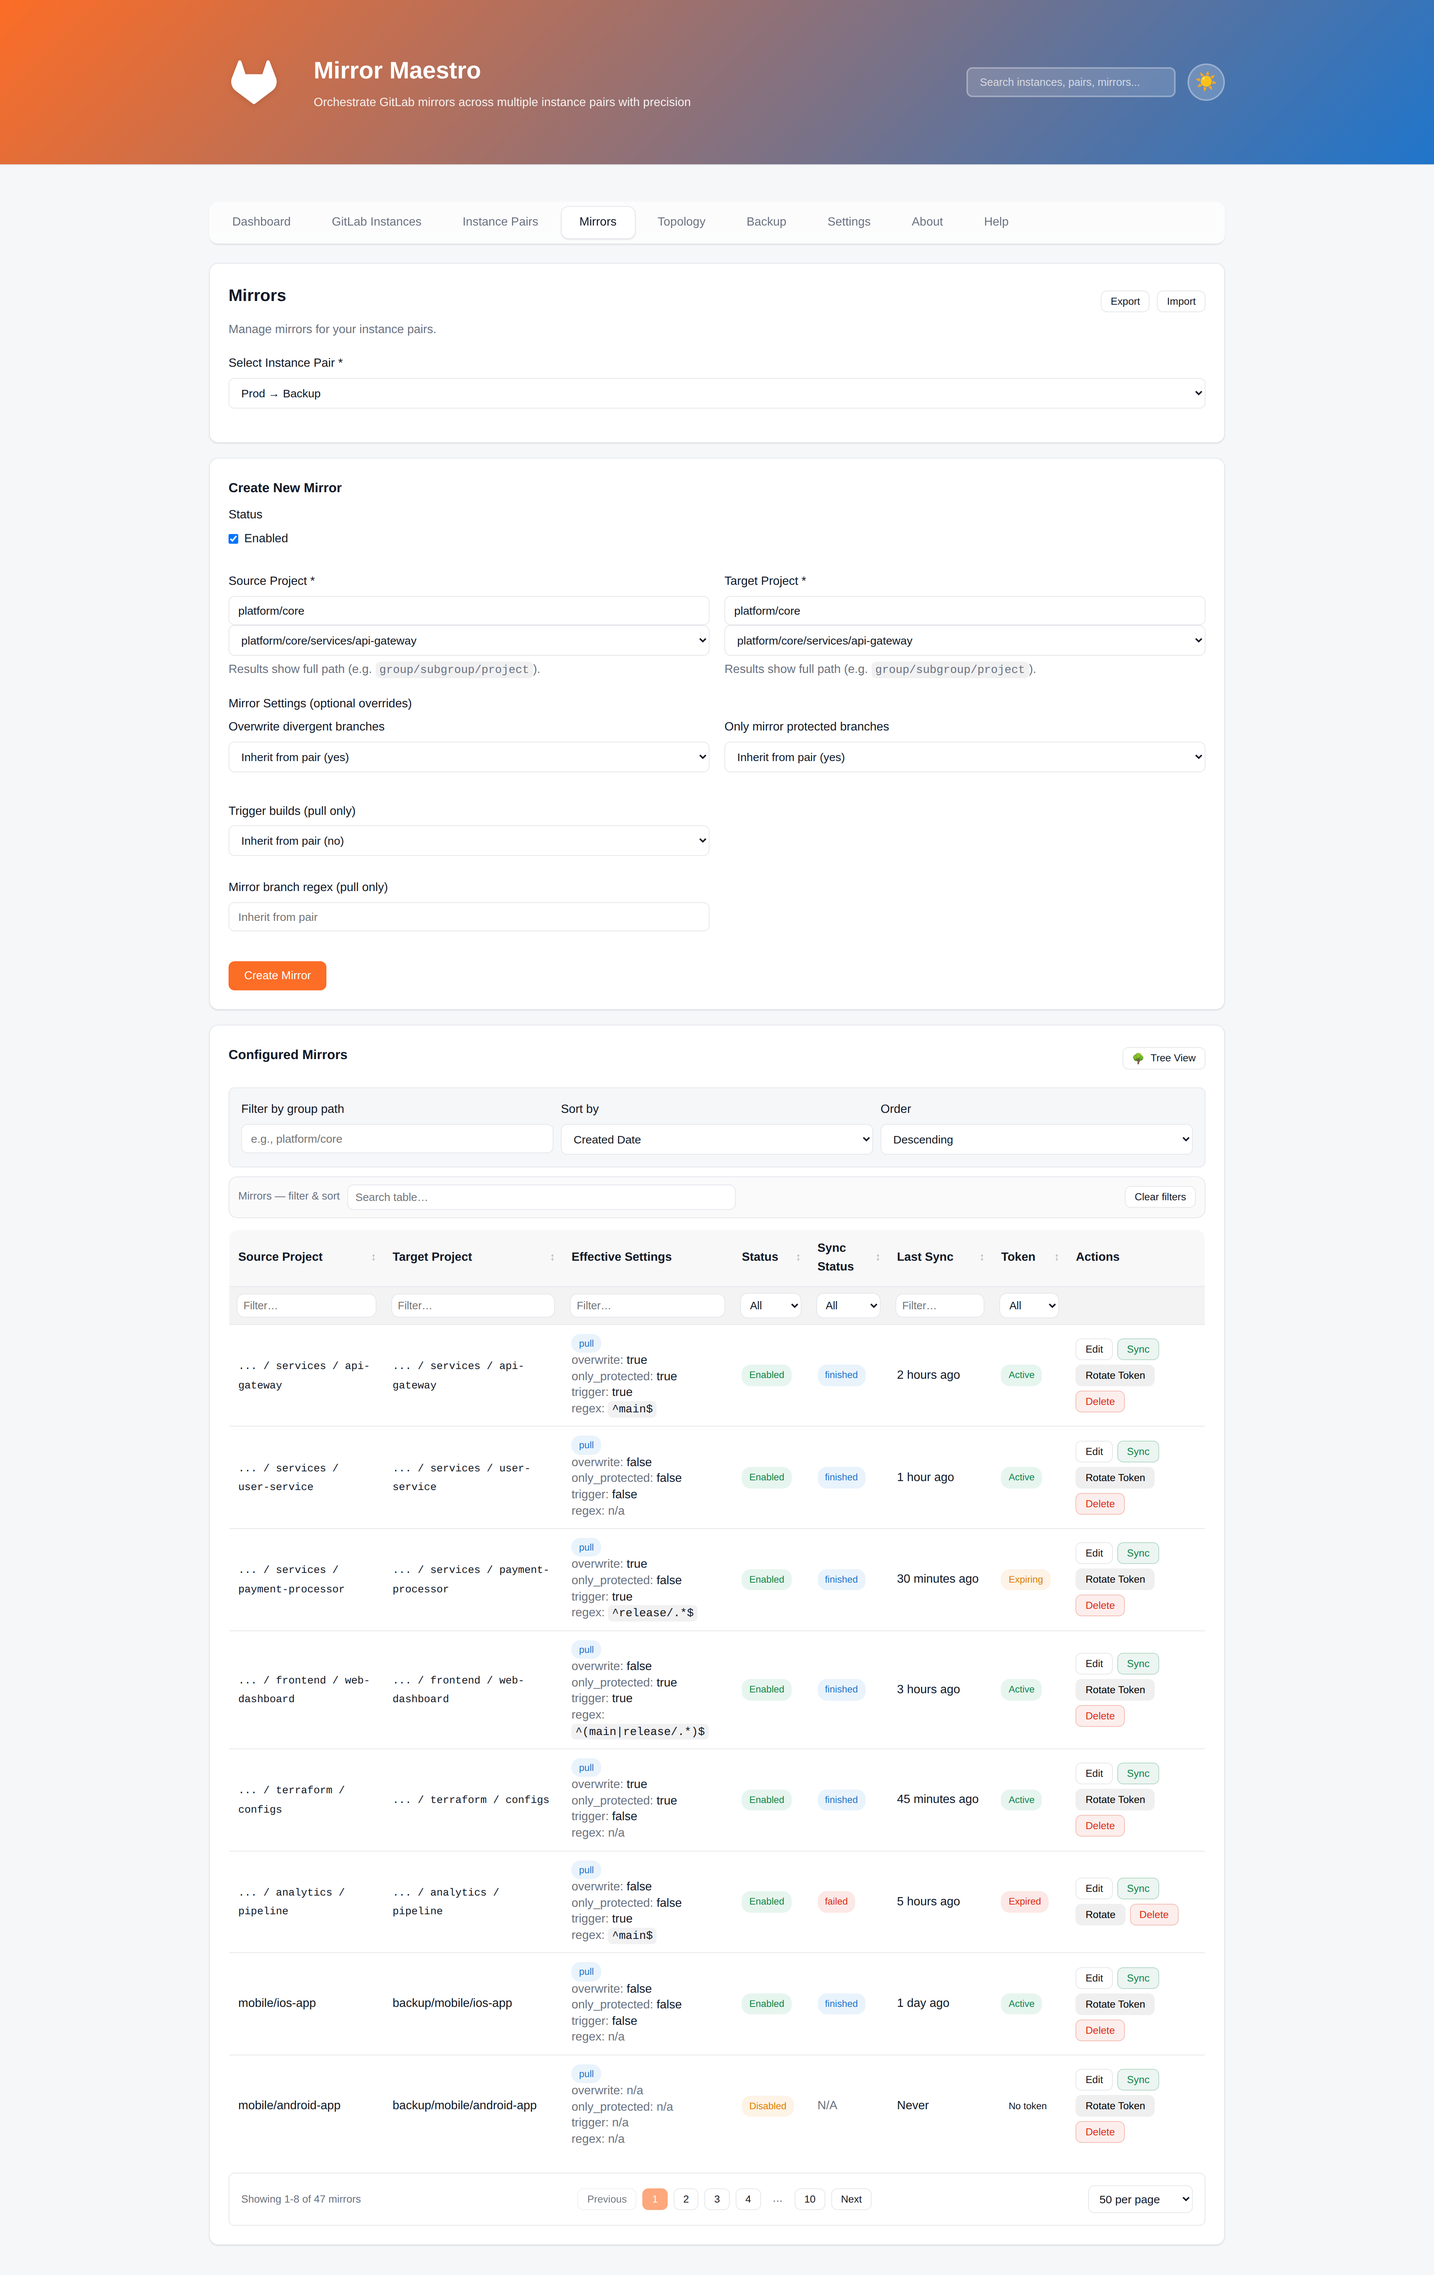
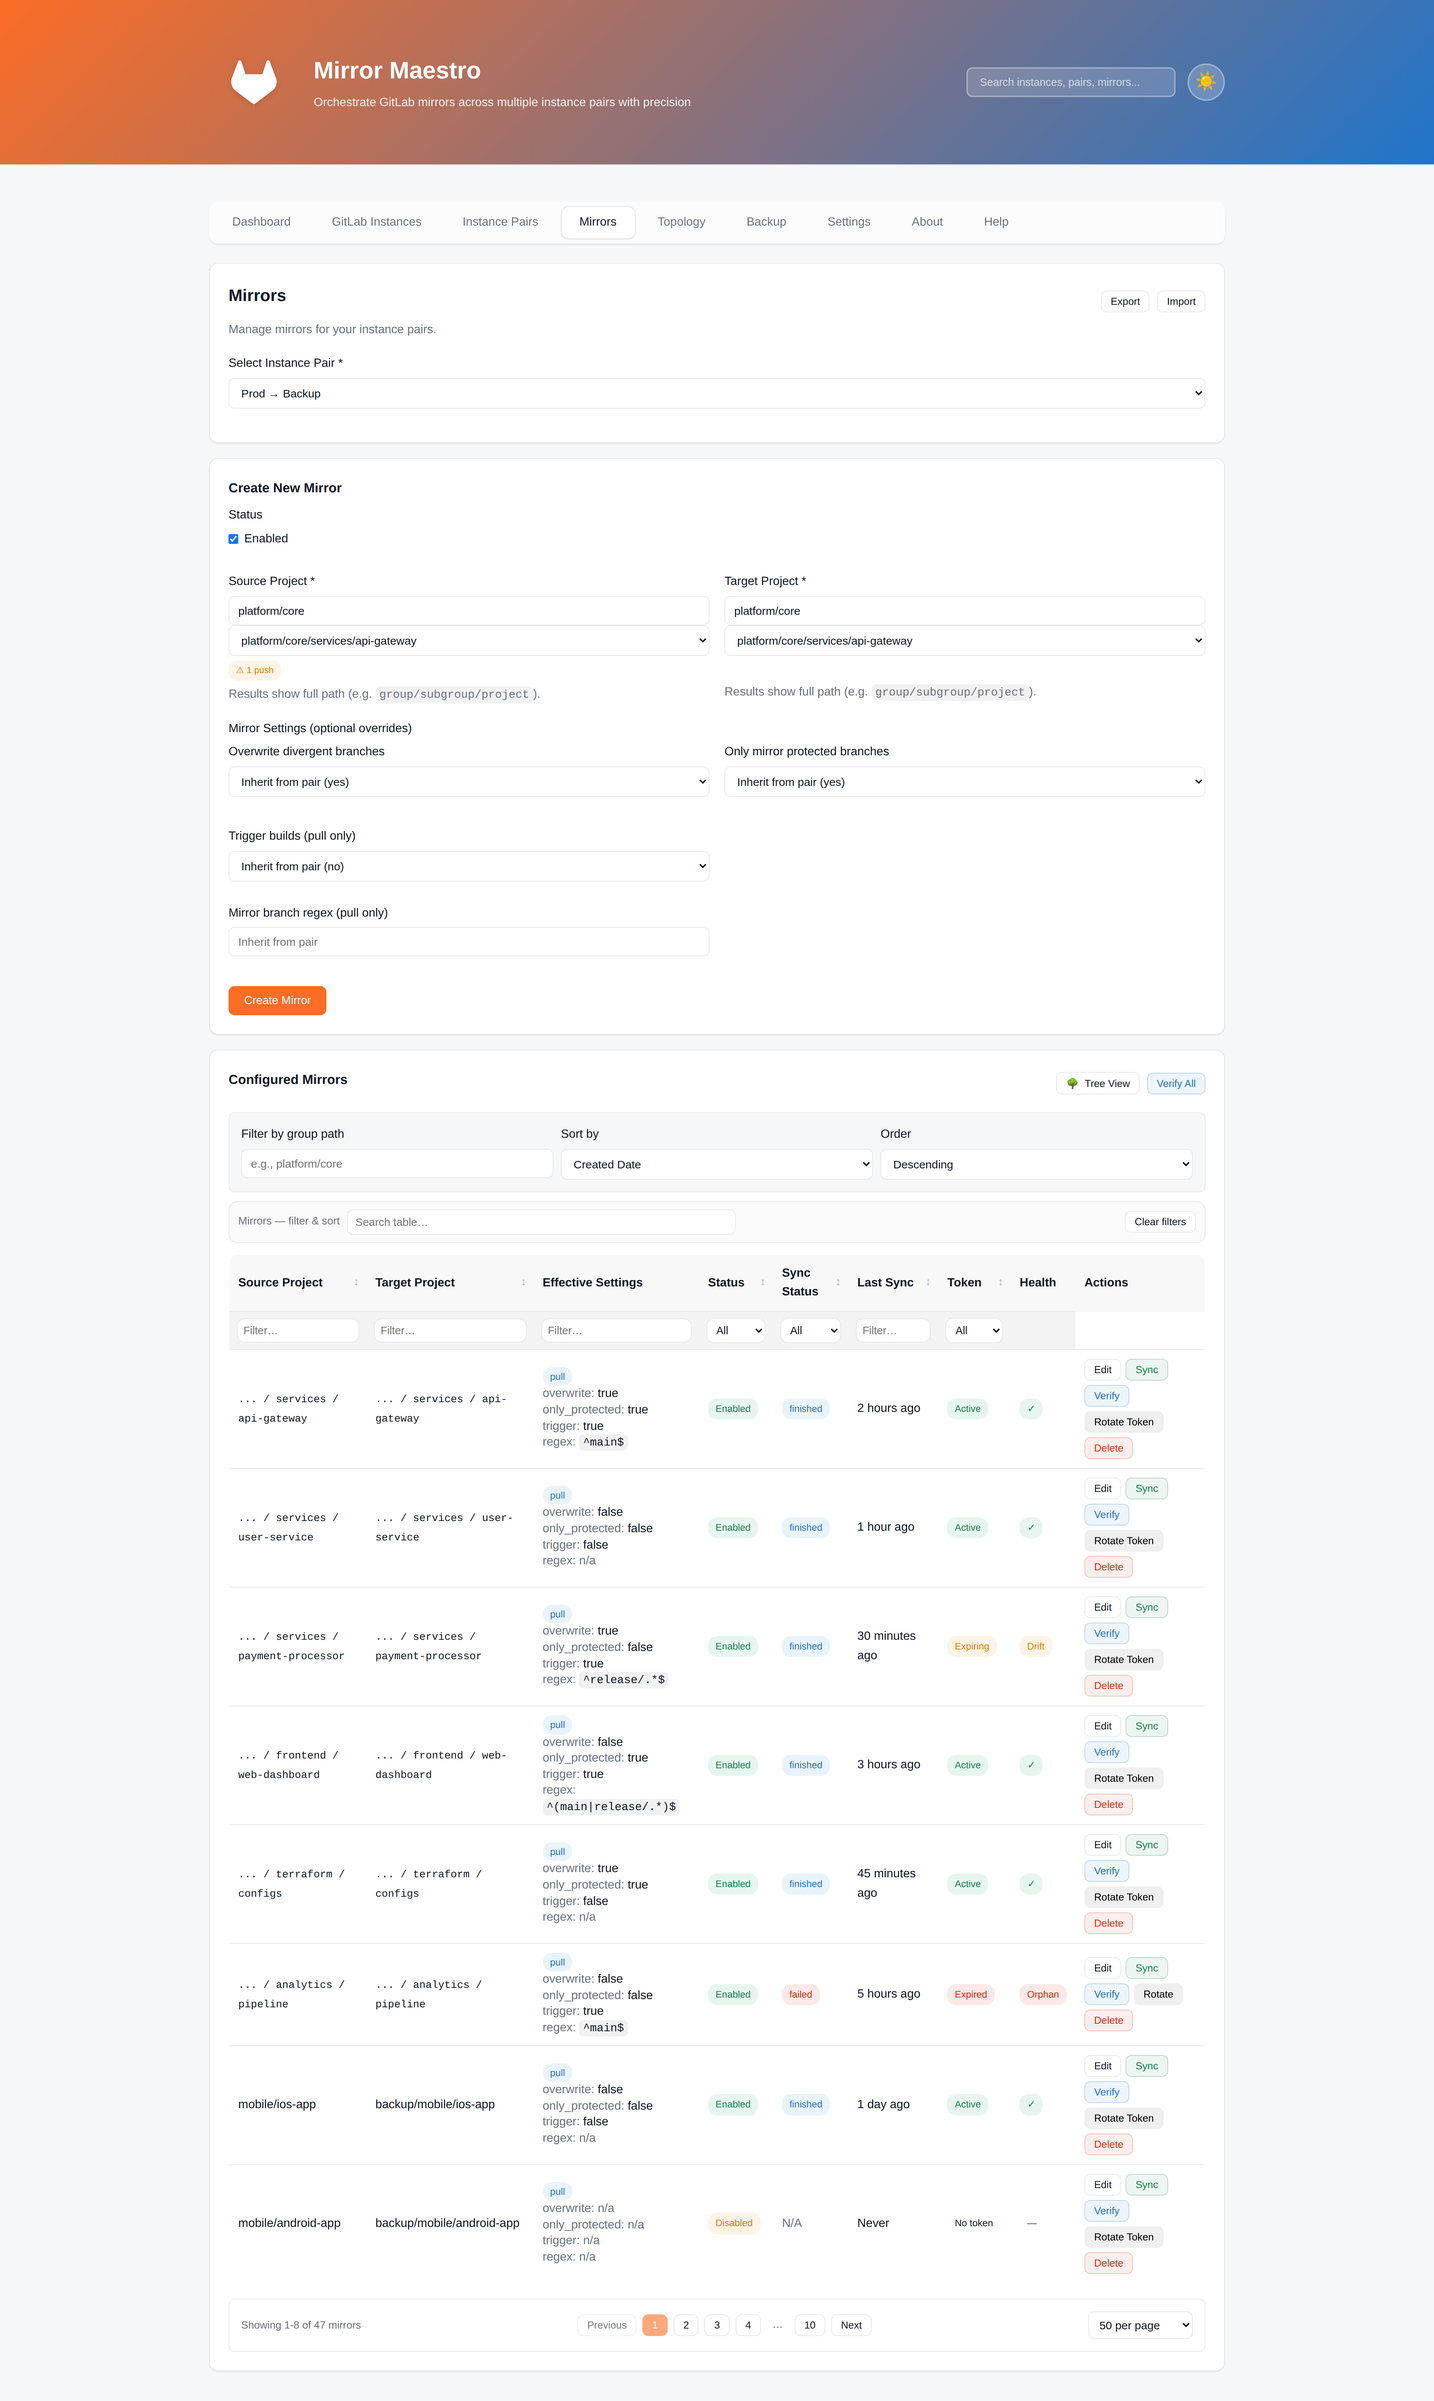
docs: Update demo HTML and regenerate screenshots for verification features
- Add Health column and Verify buttons to demo-mirrors.html
- Add external mirror indicator badge to source project select
- Add "Verify All" button to mirrors table
- Add Mirror Verification section to demo-help.html with docs for orphan/drift detection
- Regenerate 04-mirrors.png and 09-help.png screenshots

diff --git a/docs/screenshots/demo-mirrors.html b/docs/screenshots/demo-mirrors.html
@@ -92,6 +92,7 @@
                                 <option value="125">platform/core/services/payment-processor</option>
                                 <option value="126">platform/edge/gateway-proxy</option>
                             </select>
+                            <div class="project-mirrors-badge"><span class="badge badge-warning" title="This project has 1 existing mirror(s) on GitLab">⚠ 1 push</span></div>
                             <div class="text-muted" style="margin-top: 6px;">Results show full path (e.g. <code>group/subgroup/project</code>).</div>
                         </div>
                         <div class="form-group">
@@ -104,6 +105,7 @@
                                 <option value="458">platform/core/services/payment-processor</option>
                                 <option value="459">platform/edge/gateway-proxy</option>
                             </select>
+                            <div class="project-mirrors-badge"></div>
                             <div class="text-muted" style="margin-top: 6px;">Results show full path (e.g. <code>group/subgroup/project</code>).</div>
                         </div>
                     </div>
@@ -153,6 +155,9 @@
                         <button class="btn btn-secondary btn-small" title="Toggle between flat list and tree view">
                             <span id="view-mode-icon">🌳</span> Tree View
                         </button>
+                        <button class="btn btn-info btn-small" title="Check all mirrors for orphan/drift issues">
+                            Verify All
+                        </button>
                     </div>
                 </div>
 
@@ -191,6 +196,7 @@
                             <th>Sync Status</th>
                             <th>Last Sync</th>
                             <th>Token</th>
+                            <th title="Orphan/drift detection status">Health</th>
                             <th>Actions</th>
                         </tr>
                     </thead>
@@ -211,10 +217,12 @@
                             <td><span class="badge badge-info">finished</span></td>
                             <td>2 hours ago</td>
                             <td><span class="badge badge-success">Active</span></td>
+                            <td><span class="badge badge-success" title="Mirror verified: healthy">✓</span></td>
                             <td>
                                 <div class="table-actions">
                                     <button class="btn btn-secondary btn-small">Edit</button>
                                     <button class="btn btn-success btn-small">Sync</button>
+                                    <button class="btn btn-info btn-small">Verify</button>
                                     <button class="btn btn-warning btn-small">Rotate Token</button>
                                     <button class="btn btn-danger btn-small">Delete</button>
                                 </div>
@@ -236,10 +244,12 @@
                             <td><span class="badge badge-info">finished</span></td>
                             <td>1 hour ago</td>
                             <td><span class="badge badge-success">Active</span></td>
+                            <td><span class="badge badge-success" title="Mirror verified: healthy">✓</span></td>
                             <td>
                                 <div class="table-actions">
                                     <button class="btn btn-secondary btn-small">Edit</button>
                                     <button class="btn btn-success btn-small">Sync</button>
+                                    <button class="btn btn-info btn-small">Verify</button>
                                     <button class="btn btn-warning btn-small">Rotate Token</button>
                                     <button class="btn btn-danger btn-small">Delete</button>
                                 </div>
@@ -261,10 +271,12 @@
                             <td><span class="badge badge-info">finished</span></td>
                             <td>30 minutes ago</td>
                             <td><span class="badge badge-warning" title="Expires 2026-01-15">Expiring</span></td>
+                            <td><span class="badge badge-warning" title="Settings mismatch: enabled: expected true, got false">Drift</span></td>
                             <td>
                                 <div class="table-actions">
                                     <button class="btn btn-secondary btn-small">Edit</button>
                                     <button class="btn btn-success btn-small">Sync</button>
+                                    <button class="btn btn-info btn-small">Verify</button>
                                     <button class="btn btn-warning btn-small">Rotate Token</button>
                                     <button class="btn btn-danger btn-small">Delete</button>
                                 </div>
@@ -286,10 +298,12 @@
                             <td><span class="badge badge-info">finished</span></td>
                             <td>3 hours ago</td>
                             <td><span class="badge badge-success">Active</span></td>
+                            <td><span class="badge badge-success" title="Mirror verified: healthy">✓</span></td>
                             <td>
                                 <div class="table-actions">
                                     <button class="btn btn-secondary btn-small">Edit</button>
                                     <button class="btn btn-success btn-small">Sync</button>
+                                    <button class="btn btn-info btn-small">Verify</button>
                                     <button class="btn btn-warning btn-small">Rotate Token</button>
                                     <button class="btn btn-danger btn-small">Delete</button>
                                 </div>
@@ -311,10 +325,12 @@
                             <td><span class="badge badge-info">finished</span></td>
                             <td>45 minutes ago</td>
                             <td><span class="badge badge-success">Active</span></td>
+                            <td><span class="badge badge-success" title="Mirror verified: healthy">✓</span></td>
                             <td>
                                 <div class="table-actions">
                                     <button class="btn btn-secondary btn-small">Edit</button>
                                     <button class="btn btn-success btn-small">Sync</button>
+                                    <button class="btn btn-info btn-small">Verify</button>
                                     <button class="btn btn-warning btn-small">Rotate Token</button>
                                     <button class="btn btn-danger btn-small">Delete</button>
                                 </div>
@@ -336,10 +352,12 @@
                             <td><span class="badge badge-danger">failed</span></td>
                             <td>5 hours ago</td>
                             <td><span class="badge badge-danger">Expired</span></td>
+                            <td><span class="badge badge-danger" title="Mirror no longer exists on GitLab">Orphan</span></td>
                             <td>
                                 <div class="table-actions">
                                     <button class="btn btn-secondary btn-small">Edit</button>
                                     <button class="btn btn-success btn-small">Sync</button>
+                                    <button class="btn btn-info btn-small">Verify</button>
                                     <button class="btn btn-warning btn-small">Rotate</button>
                                     <button class="btn btn-danger btn-small">Delete</button>
                                 </div>
@@ -361,10 +379,12 @@
                             <td><span class="badge badge-info">finished</span></td>
                             <td>1 day ago</td>
                             <td><span class="badge badge-success">Active</span></td>
+                            <td><span class="badge badge-success" title="Mirror verified: healthy">✓</span></td>
                             <td>
                                 <div class="table-actions">
                                     <button class="btn btn-secondary btn-small">Edit</button>
                                     <button class="btn btn-success btn-small">Sync</button>
+                                    <button class="btn btn-info btn-small">Verify</button>
                                     <button class="btn btn-warning btn-small">Rotate Token</button>
                                     <button class="btn btn-danger btn-small">Delete</button>
                                 </div>
@@ -386,10 +406,12 @@
                             <td><span class="text-muted">N/A</span></td>
                             <td>Never</td>
                             <td><span class="badge badge-secondary">No token</span></td>
+                            <td><span class="badge badge-secondary" title="Mirror not yet created on GitLab">—</span></td>
                             <td>
                                 <div class="table-actions">
                                     <button class="btn btn-secondary btn-small">Edit</button>
                                     <button class="btn btn-success btn-small">Sync</button>
+                                    <button class="btn btn-info btn-small">Verify</button>
                                     <button class="btn btn-warning btn-small">Rotate Token</button>
                                     <button class="btn btn-danger btn-small">Delete</button>
                                 </div>

diff --git a/docs/screenshots/demo-help.html b/docs/screenshots/demo-help.html
@@ -211,6 +211,73 @@
                 </ul>
             </div>
 
+            <!-- Mirror Verification -->
+            <div class="card">
+                <h2>Mirror Verification</h2>
+                <p class="text-muted">Detect orphaned mirrors and configuration drift between your database and GitLab.</p>
+
+                <h3>Understanding Mirror Health</h3>
+                <p>Mirror Maestro can verify that mirrors configured in its database actually exist on GitLab and have matching settings. This helps detect:</p>
+
+                <h4>Orphaned Mirrors</h4>
+                <p>A mirror is <strong>orphaned</strong> when it exists in Mirror Maestro's database but the corresponding mirror no longer exists on GitLab (e.g., someone deleted it directly in GitLab).</p>
+                <ul>
+                    <li><span class="badge badge-danger">Orphan</span> - Mirror record exists but GitLab mirror was deleted</li>
+                    <li><strong>Resolution:</strong> Delete the orphaned record from Mirror Maestro, or recreate the mirror on GitLab</li>
+                </ul>
+
+                <h4>Configuration Drift</h4>
+                <p>A mirror has <strong>drift</strong> when its settings in Mirror Maestro's database don't match the actual settings on GitLab.</p>
+                <ul>
+                    <li><span class="badge badge-warning">Drift</span> - Settings mismatch detected</li>
+                    <li>Checked settings: enabled status, protected branches only, keep divergent refs, trigger builds, branch regex</li>
+                    <li><strong>Resolution:</strong> Edit the mirror to resync settings, or accept the GitLab-side changes</li>
+                </ul>
+
+                <h3>Health Status Badges</h3>
+                <table class="help-table">
+                    <thead>
+                        <tr>
+                            <th>Badge</th>
+                            <th>Meaning</th>
+                        </tr>
+                    </thead>
+                    <tbody>
+                        <tr>
+                            <td><span class="badge badge-success">✓</span></td>
+                            <td>Mirror is healthy - exists on GitLab with matching settings</td>
+                        </tr>
+                        <tr>
+                            <td><span class="badge badge-warning">Drift</span></td>
+                            <td>Settings mismatch between database and GitLab</td>
+                        </tr>
+                        <tr>
+                            <td><span class="badge badge-danger">Orphan</span></td>
+                            <td>Mirror no longer exists on GitLab</td>
+                        </tr>
+                        <tr>
+                            <td><span class="badge badge-secondary">—</span></td>
+                            <td>Mirror not yet created on GitLab (no mirror_id)</td>
+                        </tr>
+                    </tbody>
+                </table>
+
+                <h3>Verification Actions</h3>
+                <ul>
+                    <li><strong>Verify (per-row)</strong> - Check a single mirror's health status</li>
+                    <li><strong>Verify All</strong> - Check all visible mirrors in batch</li>
+                </ul>
+                <p>Results are cached during the session to avoid repeated API calls.</p>
+
+                <h3>External Mirror Indicator</h3>
+                <p>When selecting projects for a new mirror, Mirror Maestro checks if the selected project already has existing mirrors configured directly on GitLab:</p>
+                <ul>
+                    <li><span class="badge badge-warning">⚠ 1 push</span> - Shows count and type of existing mirrors</li>
+                    <li>This helps avoid conflicts when creating new mirrors</li>
+                    <li>Existing mirrors may prevent new mirror creation (use preflight check)</li>
+                </ul>
+            </div>
+
             <!-- System Health -->
             <div class="card">
                 <h2>System Health</h2>
